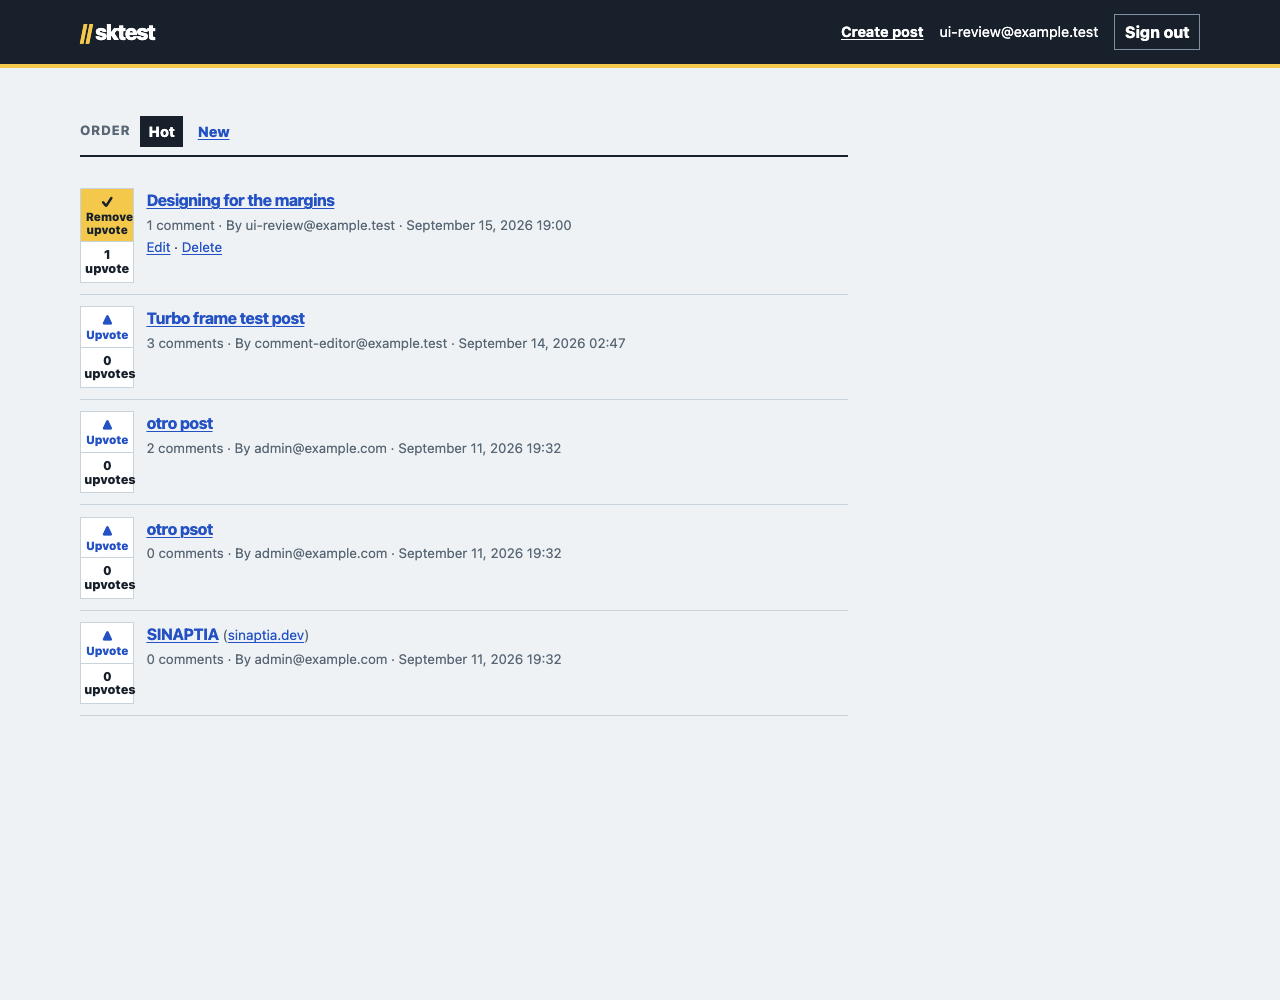
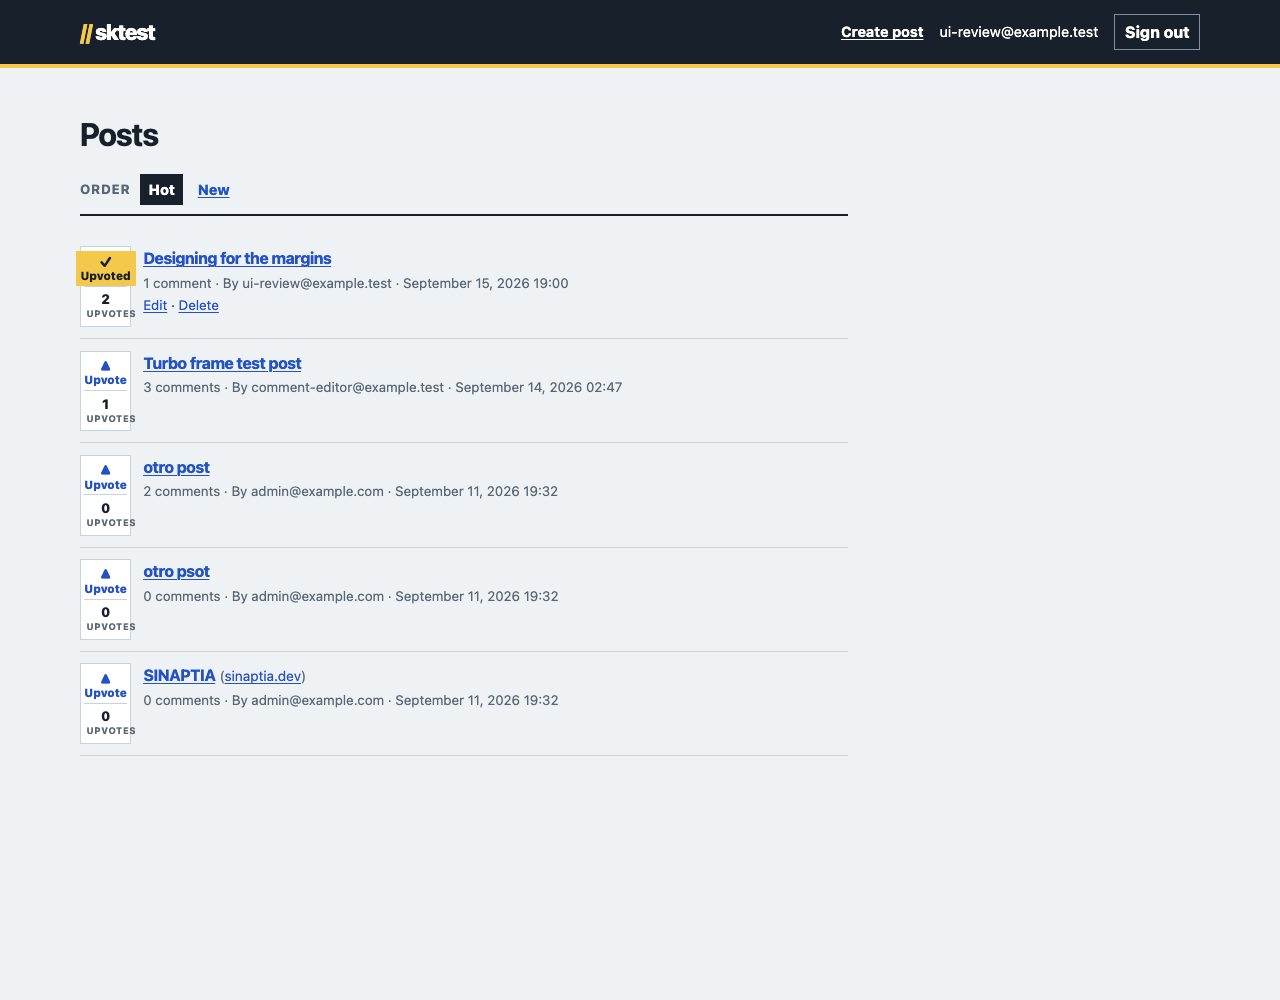
Match upvote UI to approved mockup

Changed region(s): [[0.0625, 0.093, 0.5, 0.744]]

diff --git a/app/assets/stylesheets/application.css b/app/assets/stylesheets/application.css
@@ -70,19 +70,21 @@ h3 { font-size: 1rem; }
 .post-list, .comment-thread, .comment-replies { list-style: none; margin: 0; padding: 0; }
 .post-list { max-width: var(--reading-width); }
 .post-list > li { border-bottom: 1px solid var(--rule); padding: .72rem 0 .68rem; }
-.post-list__item, .post-detail__header, .comment__header { align-items: start; display: grid; gap: .75rem; grid-template-columns: 3.4rem minmax(0, 1fr); }
+.post-list__item, .post-detail__header, .comment__header { align-items: start; display: grid; gap: .75rem; grid-template-columns: 3.2rem minmax(0, 1fr); }
 .post-order { align-items: center; border-bottom: 2px solid var(--ink); display: flex; gap: .35rem; margin: 0 0 1.2rem; max-width: var(--reading-width); padding-bottom: .55rem; }
 .post-order__label { color: var(--muted); font-size: .82rem; font-weight: 750; letter-spacing: .06em; margin-right: .25rem; text-transform: uppercase; }
 .post-order__link { border: 1px solid transparent; font-size: .9rem; font-weight: 800; padding: .22rem .48rem; }
 .post-order__link[aria-current="page"] { background: var(--ink); color: white; text-decoration: none; }
-.tally { align-items: stretch; background: var(--surface); border: 1px solid var(--rule); display: flex; flex-direction: column; min-height: 4.2rem; text-align: center; }
+.tally { align-items: center; background: var(--surface); border: 1px solid var(--rule); display: flex; flex-direction: column; min-height: 4.2rem; padding: .2rem; text-align: center; }
 .tally form { display: contents; }
-.tally__button, .comment .tally__button { appearance: none; background: transparent; border: 0; color: var(--blue); cursor: pointer; font: inherit; font-size: .72rem; font-weight: 850; line-height: 1.1; min-height: 2.3rem; padding: .3rem; text-decoration: none; }
+.tally__button, .comment .tally__button { appearance: none; background: transparent; border: 0; color: var(--blue); cursor: pointer; font: inherit; font-size: .72rem; font-weight: 850; line-height: 1; min-height: 1.8rem; padding: .25rem .3rem; text-decoration: none; }
 .tally__button::before { content: "▲"; display: block; font-size: .9rem; margin-bottom: .08rem; }
 .tally__button[aria-pressed="true"], .comment .tally__button[aria-pressed="true"] { background: var(--yellow); color: var(--ink); }
 .tally__button[aria-pressed="true"]::before { content: "✓"; }
-.tally__sign-in { align-items: center; display: flex; font-size: .72rem; font-weight: 800; justify-content: center; line-height: 1.1; min-height: 2.3rem; padding: .3rem; }
-.tally__count { border-top: 1px solid var(--rule); font-size: .78rem; font-variant-numeric: tabular-nums; font-weight: 850; line-height: 1.1; padding: .38rem .2rem; }
+.tally__sign-in { align-items: center; display: flex; font-size: .72rem; font-weight: 800; justify-content: center; line-height: 1; min-height: 1.8rem; padding: .25rem .3rem; }
+.tally__count { border-top: 1px solid var(--rule); font-variant-numeric: tabular-nums; line-height: 1; padding: .42rem .15rem .28rem; text-align: center; width: 100%; }
+.tally__number { display: block; font-size: .84rem; font-weight: 850; }
+.tally__label { color: var(--muted); display: block; font-size: .58rem; font-weight: 750; letter-spacing: .05em; margin-top: .15rem; text-transform: uppercase; }
 .post-list__title { display: inline; font-size: 1rem; font-weight: 750; margin: 0; }
 .post-url { color: var(--muted); font-size: .86rem; }
 .post-meta, .comment-meta { color: var(--muted); font-size: .84rem; margin: .16rem 0 0; }
@@ -104,16 +106,16 @@ h3 { font-size: 1rem; }
 
 .post-detail { max-width: var(--reading-width); }
 .post-detail__title { display: inline; font-size: 1.2rem; margin: 0; }
-.post-detail__body { font-family: ui-serif, Georgia, serif; font-size: 1.1rem; margin-left: 4.15rem; }
+.post-detail__body { font-family: ui-serif, Georgia, serif; font-size: 1.1rem; margin: 1.25rem 0 .4rem 3.95rem; }
 .post-detail__body p:first-child { margin-top: 1.25rem; }
 
 .comments { margin-top: 3.5rem; max-width: var(--reading-width); }
 .comments > h2 { border-bottom: 2px solid var(--ink); margin: 0 0 1.2rem; padding-bottom: .55rem; }
 .comment { border-left: 3px solid var(--rule); margin: 0 0 1.2rem; padding: 0 0 1.1rem 1rem; }
 .comment:hover { border-color: var(--blue); }
-.comment__header { grid-template-columns: 3rem minmax(0, 1fr); }
-.comment .tally { min-height: 3.8rem; }
-.comment .tally__button, .comment .tally__sign-in { min-height: 2rem; }
+.comment__header { grid-template-columns: 2.7rem minmax(0, 1fr); }
+.comment .tally { min-height: 3.7rem; }
+.comment .tally__button, .comment .tally__sign-in { min-height: 1.55rem; }
 .comment p { margin: .4rem 0; }
 .comment-replies { margin: 1rem 0 0 1rem; }
 .comment-replies .comment { border-left-color: #94aabc; }
@@ -136,7 +138,7 @@ textarea { min-height: 8rem; resize: vertical; }
   .site-main { margin-top: 2rem; }
   .site-header__identity { display: none; }
   .comment-replies { margin-left: .35rem; }
-  .post-list__item, .post-detail__header { gap: .55rem; grid-template-columns: 3rem minmax(0, 1fr); }
+  .post-list__item, .post-detail__header { gap: .55rem; grid-template-columns: 2.8rem minmax(0, 1fr); }
   .comment__header { gap: .55rem; grid-template-columns: 2.7rem minmax(0, 1fr); }
-  .post-detail__body { margin-left: 3.55rem; }
+  .post-detail__body { margin-left: 3.35rem; }
 }

diff --git a/test/controllers/comments_controller_test.rb b/test/controllers/comments_controller_test.rb
@@ -14,7 +14,7 @@ class CommentsControllerTest < ActionDispatch::IntegrationTest
     get post_path(@post)
 
     assert_response :success
-    assert_select "article##{dom_id(comment)} form[action='#{post_comment_upvote_path(@post, comment)}'][method='post'] button[aria-pressed='true']", "Remove upvote"
+    assert_select "article##{dom_id(comment)} form[action='#{post_comment_upvote_path(@post, comment)}'][method='post'] button[aria-pressed='true'][aria-label='Remove upvote']", "Upvoted"
     assert_select "article##{dom_id(comment)} .tally__count", /1 upvote/
   end
 

diff --git a/test/controllers/posts_controller_test.rb b/test/controllers/posts_controller_test.rb
@@ -129,7 +129,7 @@ class PostsControllerTest < ActionDispatch::IntegrationTest
     get root_path
 
     assert_response :success
-    assert_select "form[action='#{post_upvote_path(@post)}'][method='post'] button[aria-pressed='true']", "Remove upvote"
+    assert_select "form[action='#{post_upvote_path(@post)}'][method='post'] button[aria-pressed='true'][aria-label='Remove upvote']", "Upvoted"
   end
 
   test "authenticated navigation includes post creation and sign out" do
